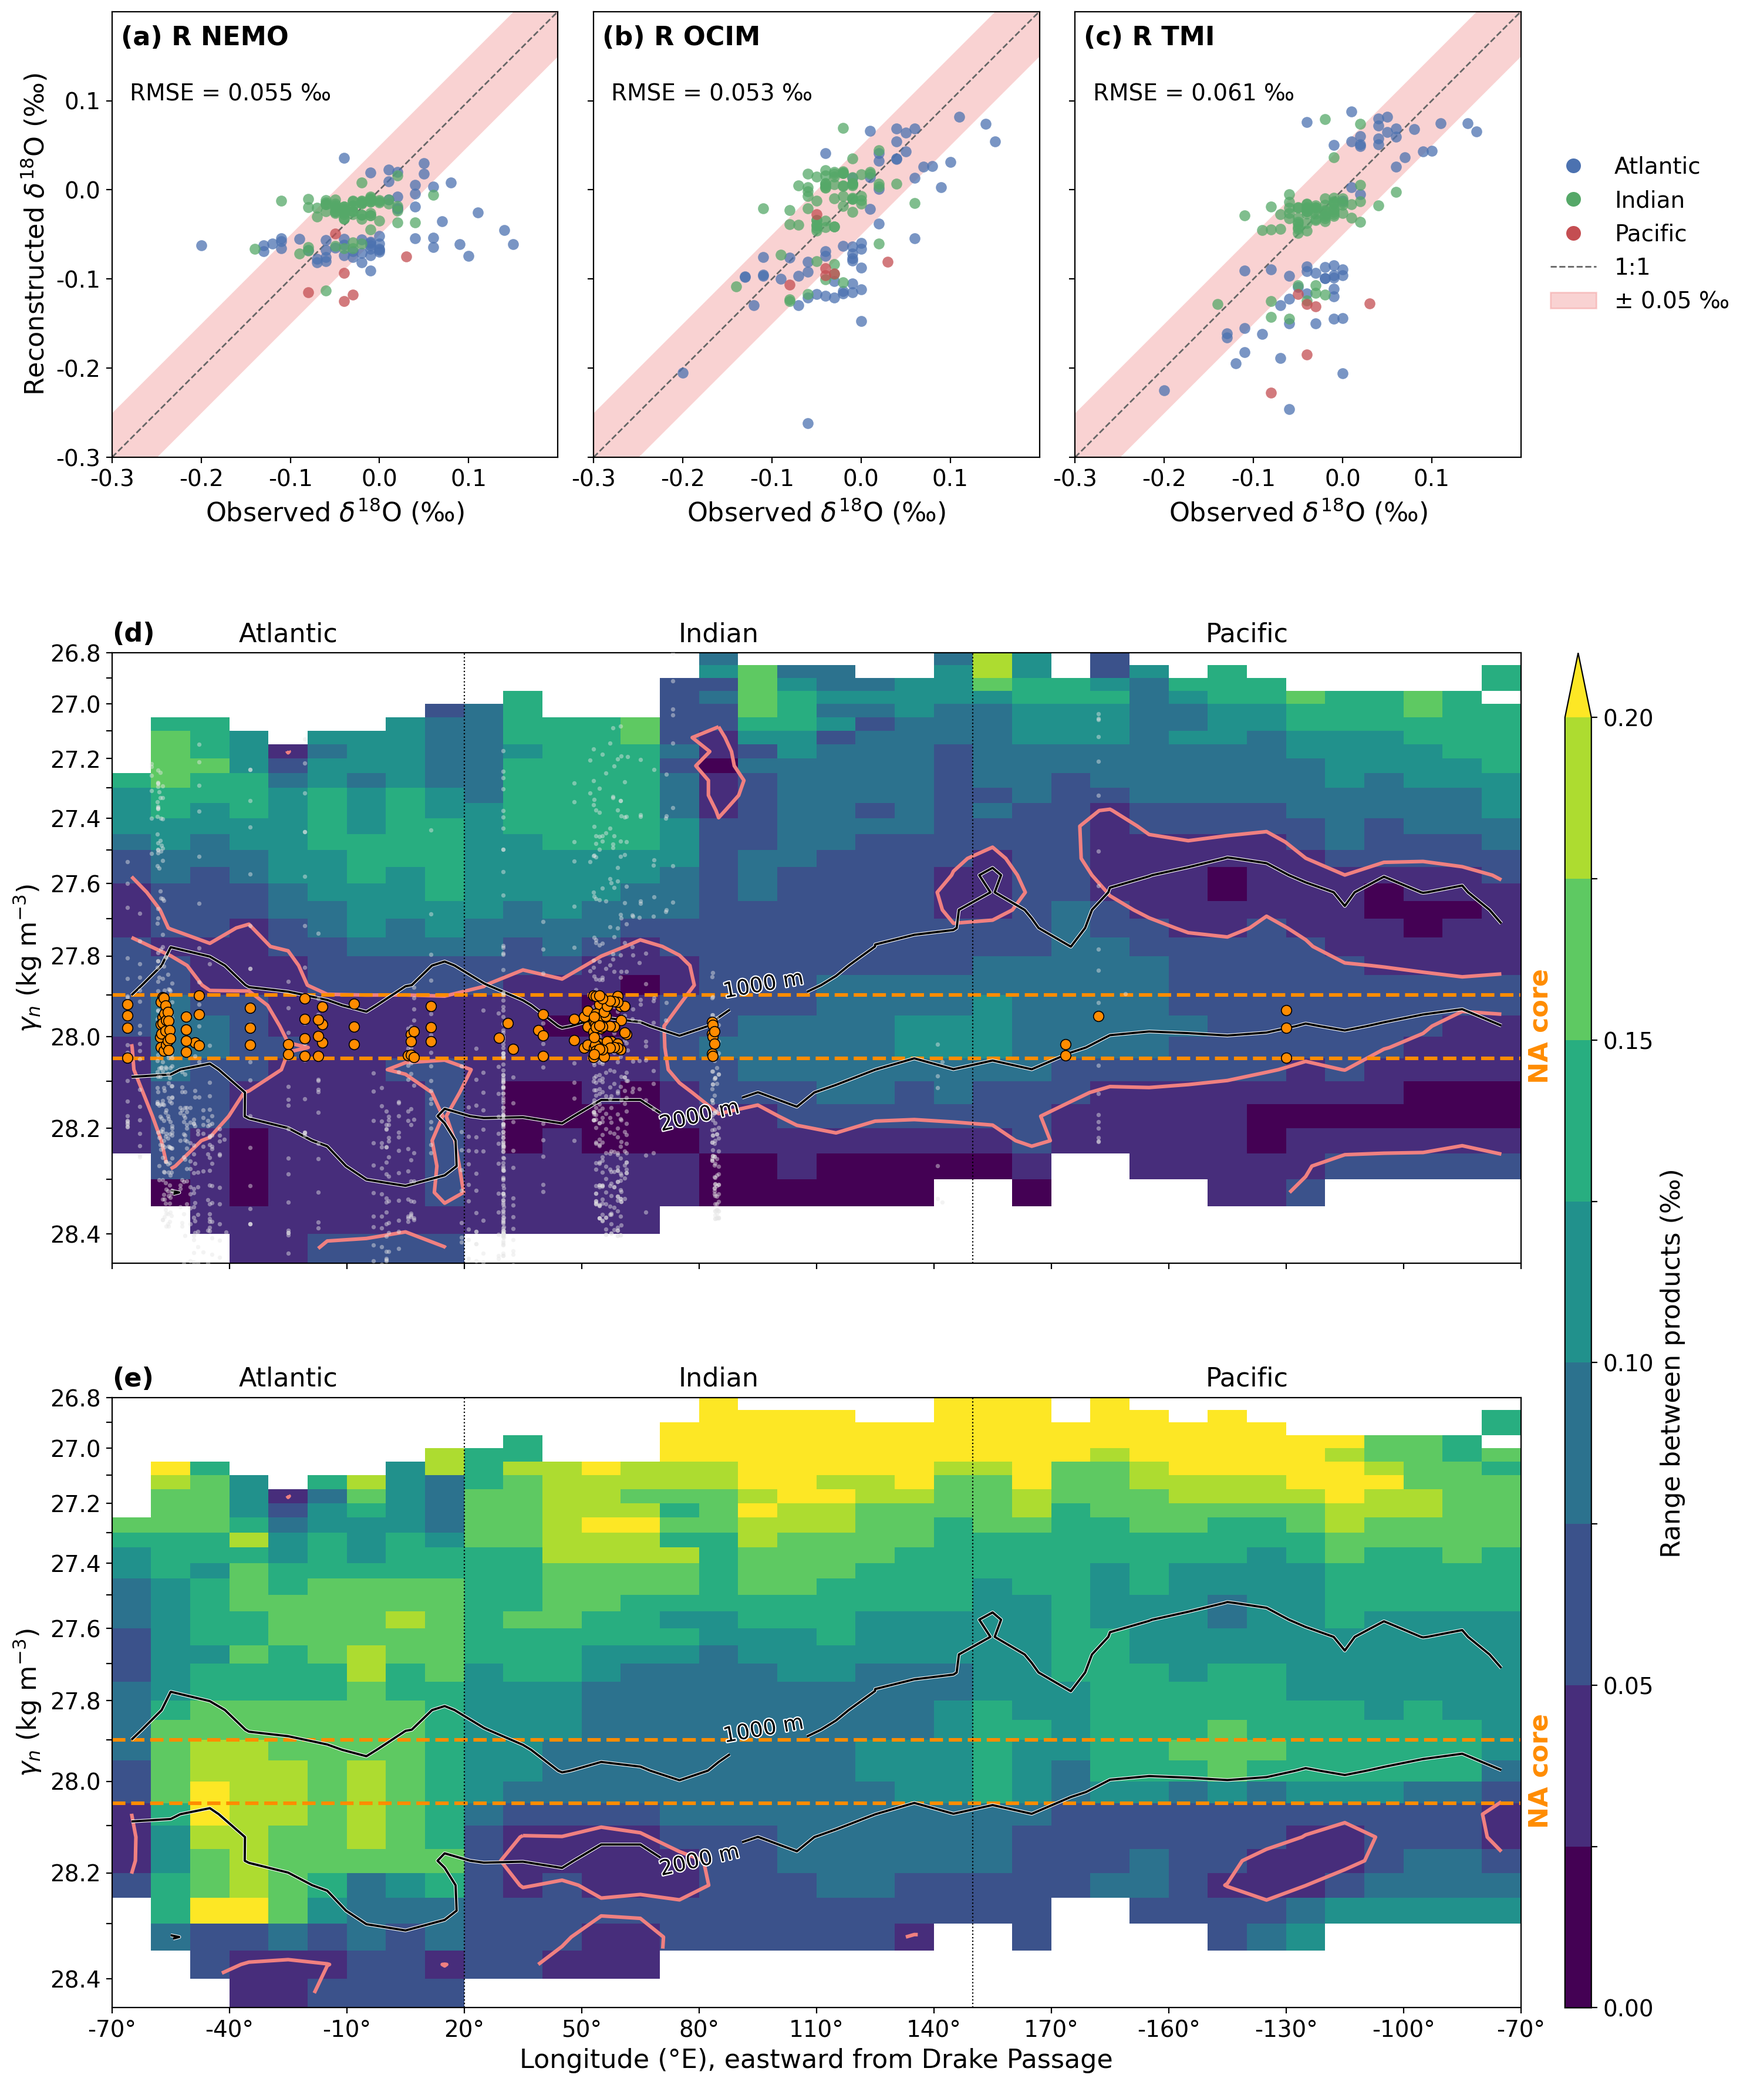
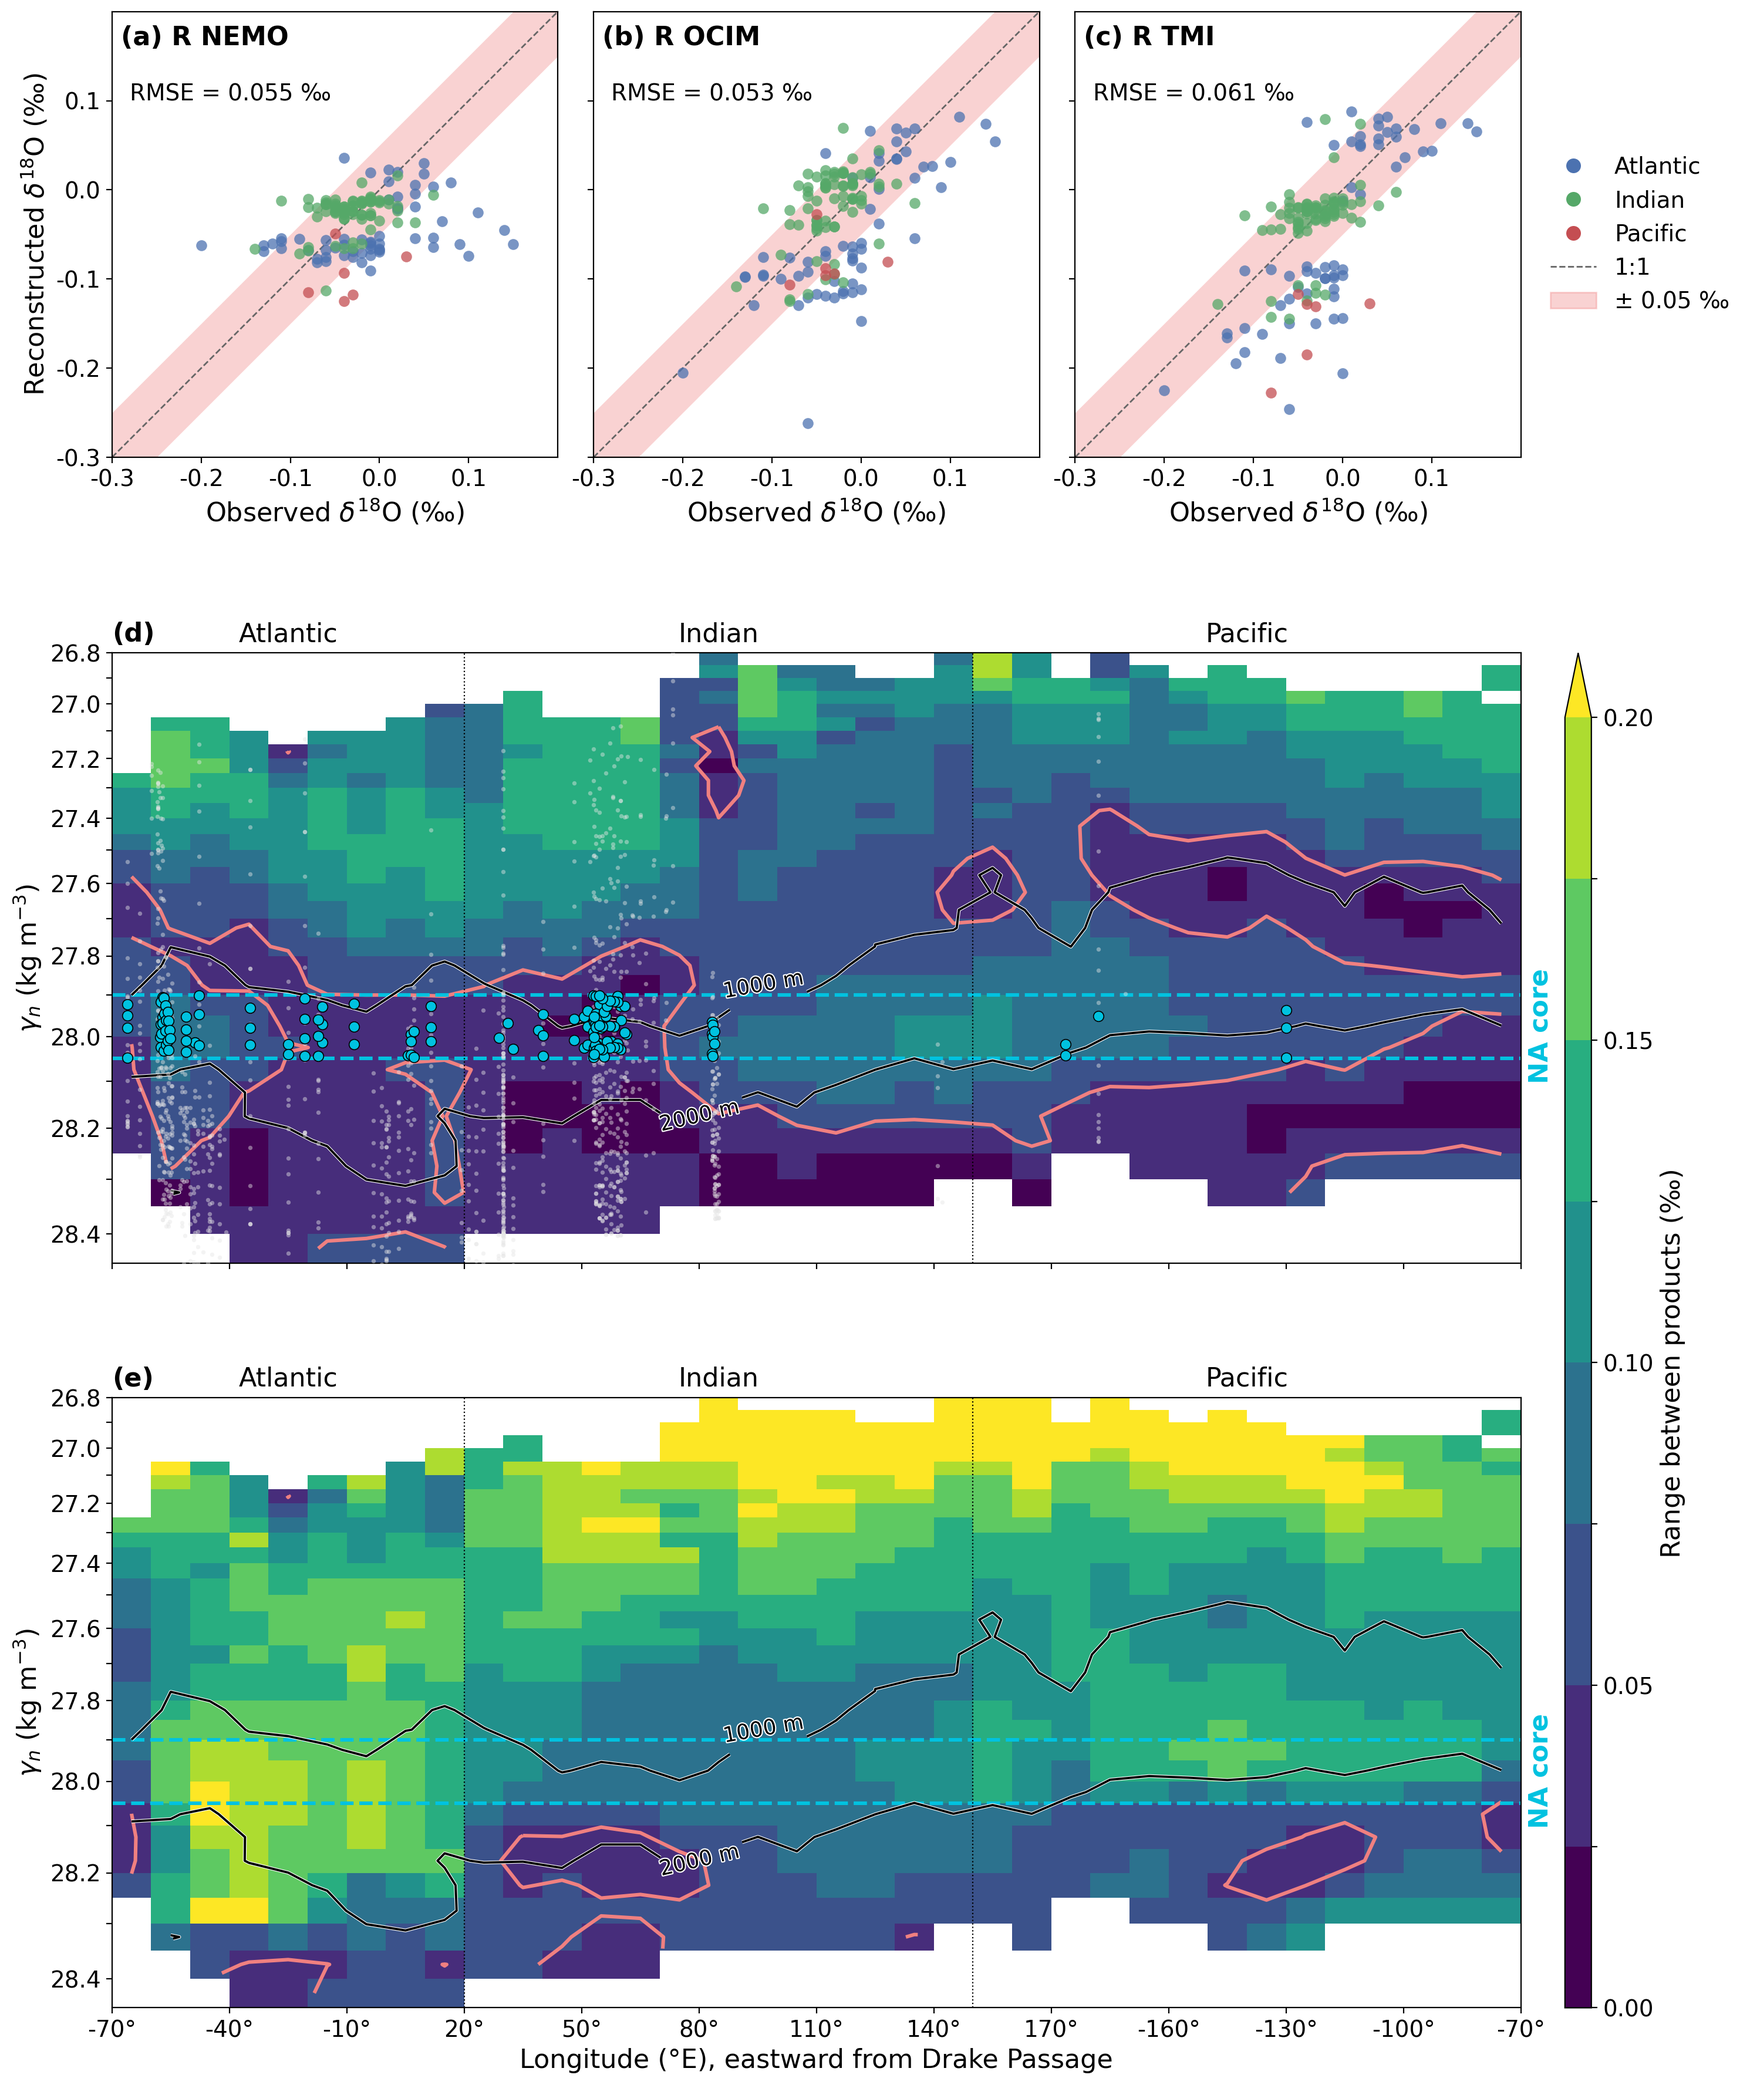
Figure 9: NA core in cyan, distinct from the precision colour

diff --git a/analysis/review/fig9_acc_divergence_na_crossplots.py b/analysis/review/fig9_acc_divergence_na_crossplots.py
@@ -56,7 +56,7 @@ LON0 = 290.0              # path starts at Drake Passage, 70 W
 L_EDGES = np.arange(0, 361, 10.0)
 G_EDGES = np.round(np.arange(26.8, 28.4501, 0.05), 3)
 LEVELS = np.round(np.arange(0, 0.2 + 1e-9, 0.025), 3)   # 8 colour classes
-NA_COLOR = 'darkorange'
+NA_COLOR = '#00c2e0'   # cyan: NA core lines, label and the NA-like observations in (d)
 PREC_COLOR = '#f08080'    # light red: analytical precision, band in (a-c) and contour in (d-e)
 
 # Sectors along the path coordinate (degrees east of 70 W): limits at 20 E and 150 E
